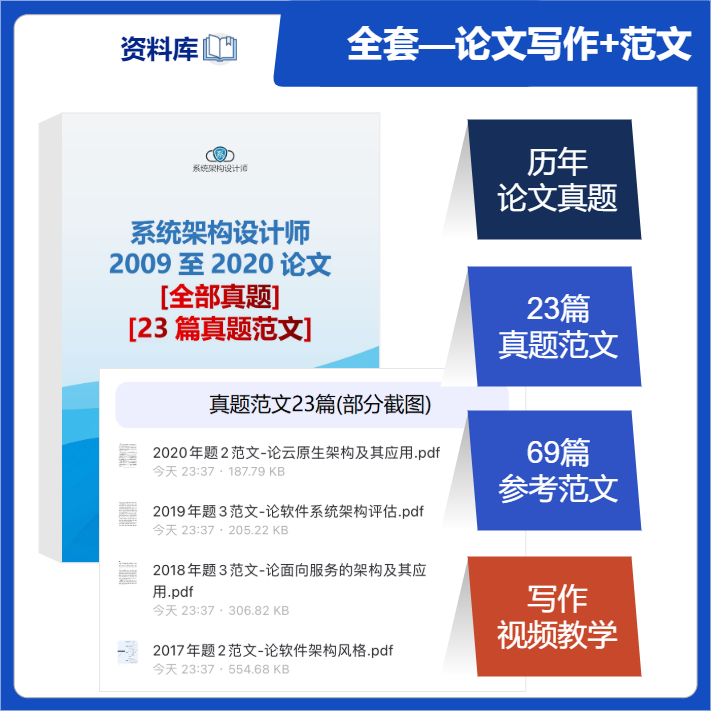
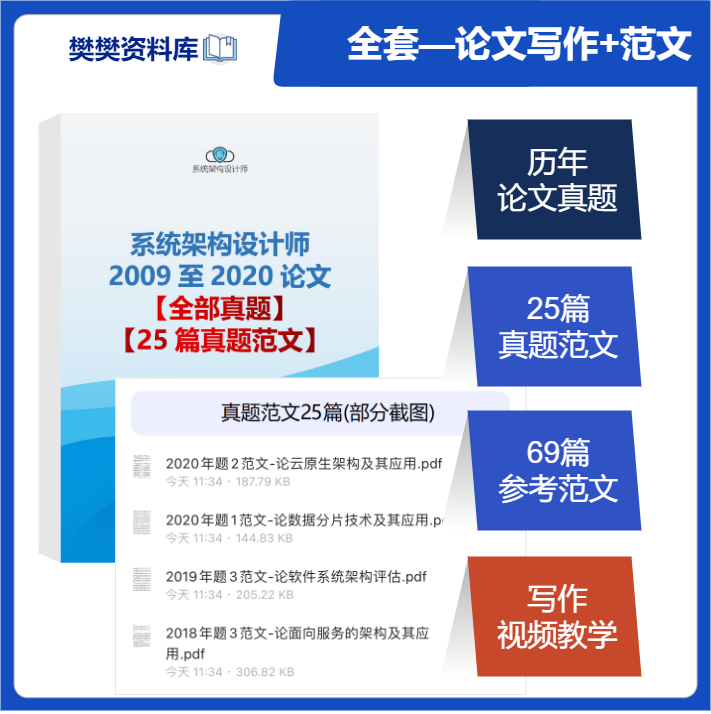
25篇真题范文

diff --git a/README.md b/README.md
@@ -6,8 +6,8 @@
    </div>
    
 - **更新日志**
- 1. - [x] **2021年10月1日**：
-    + 更新23份2009到2020年论文真题范文。
+ 1. - [x] **2021年10月4日**：
+    + 更新25篇2009到2020年论文真题范文。
    <div align="center">
    <img src="https://raw.githubusercontent.com/xxlllq/system_architect/master/%E9%A1%B9%E7%9B%AE%E5%9B%BE%E7%89%87/论文1.png" title="点击查看大图：论文" width=400 />
    </div>
